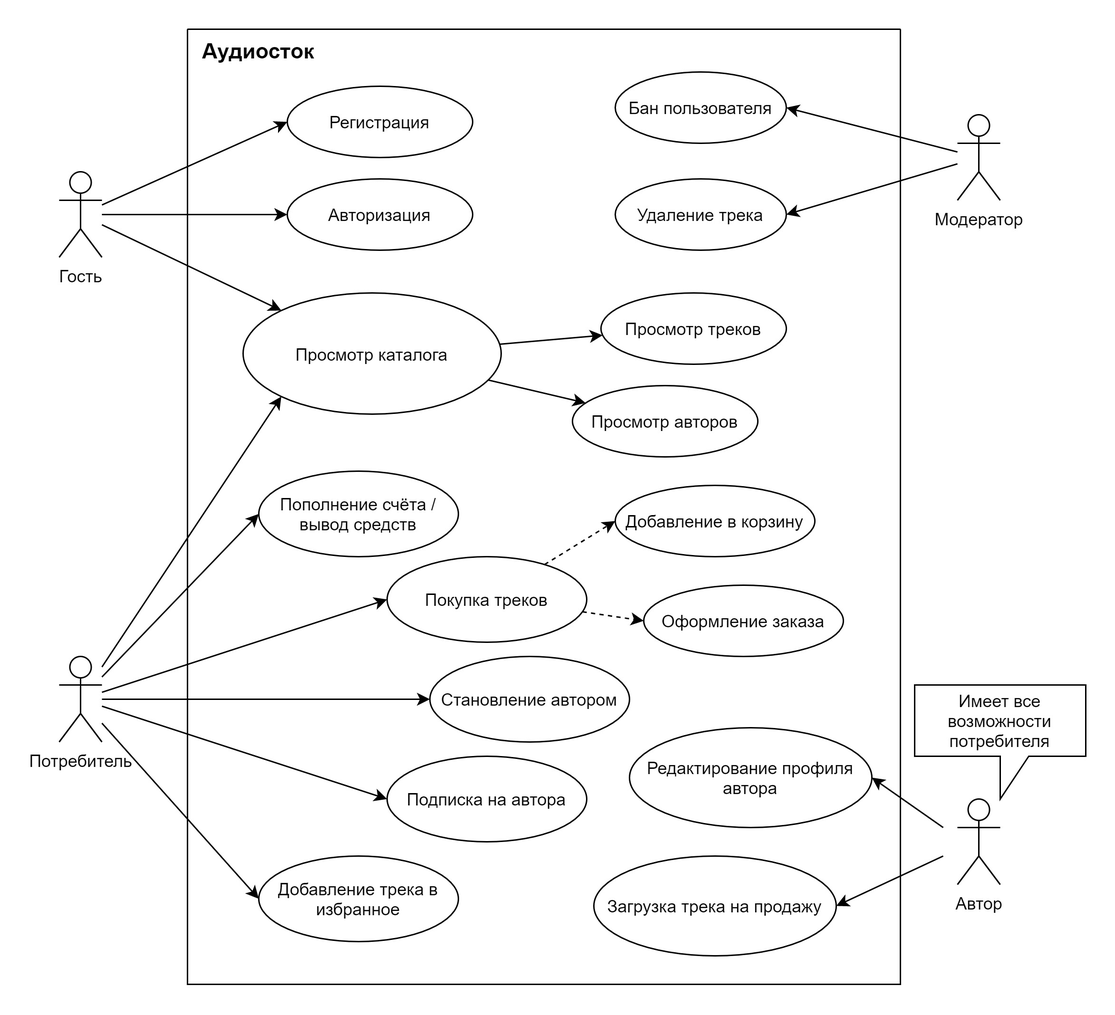
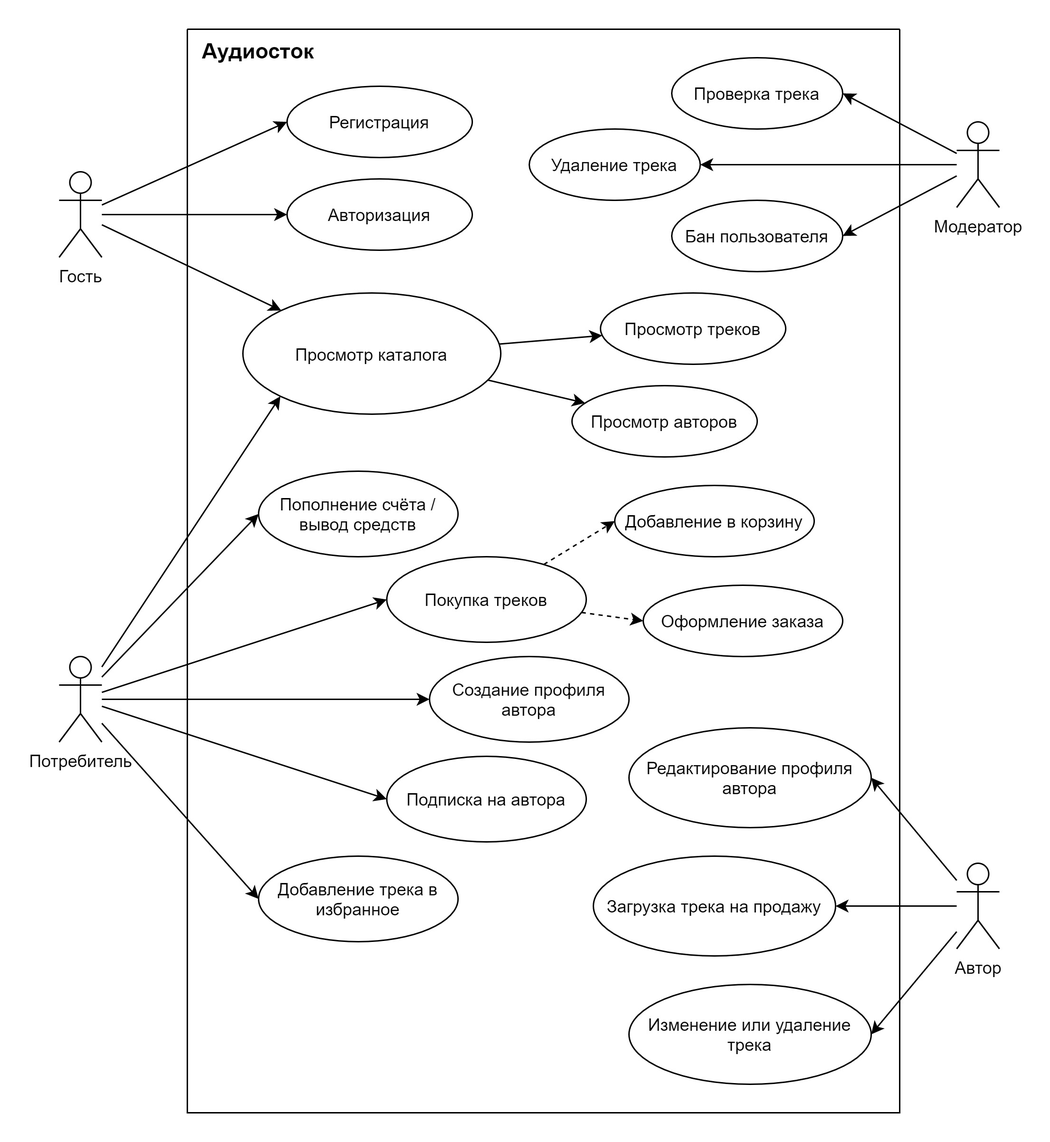
Use cases.md done (#1)
* Updated Use cases.md, changed Use case diagram.jpg

Cosmetic changes, added new scenarios to Author and Moderator

* Added Use cases.md to README.md

* Added missing points to the beginning of the document

* Buying is only for consumer

diff --git a/docs/Use cases.md b/docs/Use cases.md
@@ -1,32 +1,33 @@
 # Прецеденты использования
 
-## Список акторов
+В системе действуют следующие лица: **гость**, **потребитель**, **автор** и **модератор**. Посмотрим, какие действия им доступны.
 
-### Гость
+### Гость:
 
-- просмотр каталога сайта
-- регистрация
-- авторизация
+- просмотр каталога сайта,
+- регистрация в системе,
+- авторизация.
 
-### Потребитель
+### Потребитель:
 
-- просмотр каталога сайта
-- покупка треков
-- подписка на авторов
-- добавление трека в избранное
-- пополнение счета / вывод средств
+- просмотр каталога сайта,
+- покупка треков,
+- подписка на авторов,
+- добавление треков в избранное,
+- пополнение счёта / вывод средств.
 
-### Автор
+### Автор:
 
-*\*Все то же, что доступно потребителю\**
+- редактирование профиля автора,
+- загрузка треков на продажу,
+- изменение информации о треках,
+- удаление треков.
 
-- редактирование профиля автора
-- выкладывание треков
+### Модератор:
 
-### Модератор
-
-- Бан пользователя
-- Удаление трека
+- обработка заявок на добавление треков,
+- бан пользователей,
+- удаление треков.
 
 ## Диаграмма прецедентов использования
 
@@ -34,39 +35,126 @@
 
 ## Спецификации потока событий
 
+1. Спецификации прецедентов использования **гостя**:
+
 | Прецедент | Регистрация |
 | --- | --- |
 | Краткое описание | *Гость* создает новую учетную запись |
 | Действующие лица | *Гость* |
 | Предусловия | *Гость* хочет зарегистрироваться |
 | Основной поток | *Гость* заполняет регистрационную форму, указав логин и пароль |
-| Альтернативные потоки | Если форма заполнена неверно или логин занят, учетная запись не создаётся, пользователь получает сообщение об ошибке |
+| Альтернативные потоки | Если форма заполнена неверно, или логин занят, учетная запись не создаётся, пользователь получает сообщение об ошибке |
 | Постусловия | Если всё заполнено верно, создаётся новая учётная запись |
 
 | Прецедент | Авторизация |
 | --- | --- |
-| Краткое описание | *Гость* входит в свою учётную запись |
+| Краткое описание | *Гость* авторизируется в своей учётной записи |
 | Действующие лица | *Гость* |
 | Предусловия | *Гость* имеет зарегистрированную учётную запись |
 | Основной поток | *Гость* вводит логин и пароль в форму |
-| Альтернативные потоки | Если *гость* неверно ввел данные пользователя, или такого аккаунта нет в системе, *гость* получает сообщение об ошибке |
+| Альтернативные потоки | Если данные пользователя введены неверно, или такого аккаунта нет в системе, *гость* получает сообщение об ошибке |
 | Постусловия | Если введенные *гостем* данные есть в системе, он авторизуется и становится *потребителем* |
 
 | Прецедент | Просмотр каталога |
 | --- | --- |
 | Краткое описание | Пользователь ознакамливается с представленными на сайте треками и авторами |
-| Действующие лица | *Гость*, *потребитель*, *автор* |
+| Действующие лица | *Гость* или *потребитель* |
 | Предусловия | Пользователь желает ознакомиться с каталогом сайта |
 | Основной поток | Пользователь просматривает каталог сайта. Во вкладке "треки" можно ознакомиться с представленными на сайте аудиоматериалами, во вкладке "авторы" — просмотреть профили авторов, торгующих на площадке |
+
+2. Спецификации прецедентов использования **потребителя**:
+
+| Прецедент | Пополнение счёта |
+| --- | --- |
+| Краткое описание | Пользователь желает пополнить счёт для покупки трека(-ов) |
+| Действующие лица | *Потребитель* |
+| Предусловия | Пользователь должен быть авторизован в аккаунте *потребителя* |
+| Основной поток | Пользователь заполняет данные карточки и отправляет запрос |
+| Альтернативные потоки | Если оплата не удалась, пользователь получает сообщение об ошибке |
+| Постусловия | Счёт пользователя пополняется на введённую сумму |
+
+| Прецедент | Покупка треков |
+| --- | --- |
+| Краткое описание | Пользователь хочет купить трек |
+| Действующие лица | *Потребитель* |
+| Предусловия | Пользователь должен быть авторизован в аккаунте *потребителя* |
+| Основной поток | Интересующие треки пользователь **добавляет в корзину**, после чего переходит к **оформлению заказа**. В форме он выбирает способ оплаты и вид желаемой лицензии на трек, после чего отправляет форму |
+| Альтернативные потоки | Если оплата не удалась, пользователь получает сообщение об ошибке |
+| Постусловия | Счёт *автора* пополняется на сумму заказа, а покупателю предоставляется доступ к скачиванию аудиофайла |
+
+| Прецедент | Подписка на авторов |
+| --- | --- |
+| Краткое описание | Если пользователю понравились работы *автора*, он может подписаться на него |
+| Действующие лица | *Потребитель* |
+| Предусловия | Пользователь авторизован в аккаунте *потребителя* |
+| Основной поток | Пользователь нажимает на кнопку "подписаться" |
+| Альтернативные потоки | Если пользователь захочет отписаться от автора, кнопка "подписаться" будет заменена на "отписаться", при нажатии на которую автор пропадет из подписок |
+| Постусловия | Подписавшемуся пользователю будут приходить уведомления о новых работах автора, а сам пользователь окажется в списке подписчиков автора |
+
+| Прецедент | Добавление трека в избранное |
+| --- | --- |
+| Краткое описание | Пользователь отмечает трек, чтобы позже вернуться к нему |
+| Действующие лица | *Потребитель* |
+| Предусловия | Пользователь авторизован в аккаунте *потребителя* |
+| Основной поток | Пользователь нажимает на кнопку "Добавить в избранное" |
+| Альтернативные потоки | Если трек уже находится в избранном, кнопка меняется на "Убрать из избранного". При нажатии трек удалится из списка |
+| Постусловия | Интересующий трек добавится в список избранного пользователя, у автора появится уведомление о том что его работа кому-то понравилась |
+
+| Прецедент | Создание профиля автора |
+| --- | --- |
+| Краткое описание | *Потребитель* открывает профиль автора, чтобы начать продавать аудио |
+| Действующие лица | *Потребитель* |
+| Предусловия | Пользователь должен быть авторизован в аккаунте *потребителя* |
+| Основной поток | Пользователь заполняет форму создания профиля автора |
+| Альтернативные потоки | Если форма заполнена неверно, пользователь получает сообщение об ошибке |
+| Постусловия | У пользователя появляется доступ к действиям *автора* |
+
+3. Спецификации прецедентов использования **автора**:
+
+| Прецедент | Редактирование профиля |
+| --- | --- |
+| Краткое описание | Пользователь редактирует свой профиль автора |
+| Действующие лица | *Автор* |
+| Предусловия | Пользователь должен быть авторизован, и у него должен быть открыт профиль автора |
+| Основной поток | Пользователь меняет данные своего профиля в специальной форме |
+| Альтернативные потоки | Если форма заполнена неверно, пользователь получает сообщение об ошибке  |
+| Постусловия | Информация о пользователе меняется |
+
+| Прецедент | Загрузка трека на продажу |
+| --- | --- |
+| Краткое описание | Автор выкладывает трек на продажу |
+| Действующие лица | *Автор* |
+| Предусловия | Пользователь должен быть авторизован и иметь профиль автора |
+| Основной поток | *Автор*, выбрав обложку, описание, жанр и т. д., заполняет необходимые поля и отправляет трек на проверку *модераторов* |
+| Альтернативные потоки | - Пользователь неверно заполнил поля, тогда он получает сообщение об ошибке <br /> - *Модератор* отклонил заявку на добавление трека |
+| Постусловия | Трек размещается на площадке и появляется в треках автора |
+
+| Прецедент | Изменение или удаление трека |
+| --- | --- |
+| Краткое описание | *Автор* меняет информацию о треке или удаляет его с площадки |
+| Действующие лица | *Автор* |
+| Предусловия | Пользователь должен быть авторизован и иметь профиль автора |
+| Основной поток | Пользователь меняет данные о треке или заполняет специальную форму для удаления трека |
+| Альтернативные потоки | - Новые данные введены некорректно, пользователь получает сообщение об ошибке, данные о треке не меняются <br /> - Пользователь не подтверждает удаление трека |
+| Постусловия | Данные о треке меняются или трек удаляется с площадки и из профиля автора |
+
+4. Спецификации прецедентов использования **модератора**:
+
+| Прецедент | Проверка трека |
+| --- | --- |
+| Краткое описание | *Модератор* принимает или отклоняет заявку на добавление трека *автора* на площадку |
+| Действующие лица | *Модератор* |
+| Предусловия | Пользователь авторизован в аккаунте *модератора* |
+| Основной поток | *Модератор* проверяет информацию о треке, прослушивает его, после чего принимает решение, добавлять трек на площадку или нет. Для этого у него есть соответствующие кнопки — "Одобрить" и "Отклонить" |
 | Альтернативные потоки | - |
-| Постусловия | - |
+| Постусловия | В случае одобрения заявки, трек появляется на площадке и начинает продаваться, в случае отклонения — автор трека получает соответствующее уведомление |
 
 | Прецедент | Бан пользователя |
 | --- | --- |
-| Краткое описание | *Модератор* банит аккаунт *автора* |
+| Краткое описание | *Модератор* банит профиль автора пользователя |
 | Действующие лица | *Модератор* |
 | Предусловия | Пользователь авторизован в аккаунте *модератора* |
-| Основной поток | *Модератор* нажимает на кнопку "забанить" в профиле *автора*, помещая аккаунт в список забаненных |
+| Основной поток | *Модератор* нажимает на кнопку "забанить" в профиле автора пользователя, помещая профиль в список забаненных |
 | Альтернативные потоки | *Модератор* может "разбанить" автора, нажав на кнопку "разбанить" |
 | Постусловия | Аккаунт пропадает из вкладки авторов на главной странице. При обращении по адресу, по которому распологался профиль *автора*, любым пользователем, кроме *модератора*, пользователь получает сообщение "страница не найдена". Треки забаненного *автора* скрываются, денежные средства замораживаются |
 
@@ -77,67 +165,4 @@
 | Предусловия | Пользователь авторизован в аккаунте *модератора* |
 | Основной поток | *Модератор* нажимает на кнопку "удалить" на странице трека |
 | Альтернативные потоки | - |
-| Постусловия | Трек пропадает из вкладки "треки" и из профиля *автора* |
-
-| Прецедент | Пополнение счёта |
-| --- | --- |
-| Краткое описание | Для покупки звуков у пользователя на счету должны быть деньги |
-| Действующие лица | *Потребитель*, *автор* |
-| Предусловия | Пользователь должен быть зарегестрирован |
-| Основной поток | Пользователь заполняет данные карточки и отправляет запрос |
-| Альтернативные потоки | Если оплата не удалась пользователь получает сообщение об ошибке |
-| Постусловия | Счет пользователя пополняется на введенную сумму |
-
-| Прецедент | Покупка треков |
-| --- | --- |
-| Краткое описание | У пользователей есть возможность покупать треки |
-| Действующие лица | *Потребитель*, *автор* |
-| Предусловия | Пользователь должен быть зарегестрирован и интересующие треки должны быть **добавлены в корзину** |
-| Основной поток | Из корзины пользователь переходит  к оформлению заказа (способ оплаты, подтверждение) |
-| Альтернативные потоки | Если оплата не удалась пользователь получает сообщение об ошибке |
-| Постусловия | Счет автора пополняется на сумму заказа а покупателю предоставляется доступ к аудиофайлу |
-
-| Прецедент | Становление автором |
-| --- | --- |
-| Краткое описание | Для того что бы начать продавать аудио пользователь должен изменить статус аккаунта на автора |
-| Действующие лица | *Потребитель* |
-| Предусловия | Пользователь должен быть зарегистрирован |
-| Основной поток | Пользователь заполняет более подробную форму |
-| Альтернативные потоки | Если форма заполнена неверно пользователь получает сообщение об ошибке  |
-| Постусловия | Если все в порядке статус аккаунта меняется на авторский и ему открывается возможность выкладывать аудио на продажу |
-
-| Прецедент | Подписка на авторов |
-| --- | --- |
-| Краткое описание | Если пользователю понравились работы автора он может подписаться на него |
-| Действующие лица | *Потребитель* или *Автор* |
-| Предусловия | Пользователь зарегестрирован |
-| Основной поток | По нажатии на кнопку интересующий автор будет добавлен в список подписок |
-| Альтернативные потоки | Если автор уже был добавлен пользователь отпишется от автора |
-| Постусловия | Подписавшемуся пользователю будут приходить уведомления о новых работах автора, так же подписавшиийся окажется в списке подсчиков у автора |
-
-| Прецедент | Добавление трека в избранное |
-| --- | --- |
-| Краткое описание | Если у пользователя нет возможности купить трек в данный момент он может добавить его в список избранного |
-| Действующие лица | *Потребитель* или *Автор* |
-| Предусловия | Пользователь зарегестрирован |
-| Основной поток | По нажатии на кнопку интересующий трек будет добавлен в список избранного |
-| Альтернативные потоки | Если автор уже был добавлен трек удалится из списка |
-| Постусловия | Трек будет доступен даже после завершения сессии, у автора появится уведомление о том что его работа кому-то понравилась |
-
-| Прецедент | Редактирование профиля |
-| --- | --- |
-| Краткое описание | После решгистрации можно изменять личные данные |
-| Действующие лица | *Автор* или *Потребитель* |
-| Предусловия | Пользователь должен быть зарегестрирован |
-| Основной поток | Пользователь заполняет необходимую форму |
-| Альтернативные потоки | если форма заполнена неверно пользователь получает сообщение об ошибке  |
-| Постусловия | Если всё заполнено верно, информация о пользователе изменяется, приходит сообщение об успешной замене|
-
-| Прецедент | Загрузка трека на продажу |
-| --- | --- |
-| Краткое описание | Автор может выложить трек выбрав обложку, описание, жанр и т.д. |
-| Действующие лица | *Автор* |
-| Предусловия | Пользователь должен быть зарегестрирован и иметь статус автора |
-| Основной поток | Пользователь заполняет необходимые поля иотправляет трек на проверку |
-| Альтернативные потоки | Если запрос не проходит по параметрам, пользователю приходит сообщение об ошибке |
-| Постусловия | Если все заполнено правильно, трек размещается на площадке и появляется у пользователя в списке треков |
+| Постусловия | Трек пропадает из вкладки "треки" и из профиля автора пользователя |

diff --git a/README.md b/README.md
@@ -9,3 +9,4 @@
 ## Этапы выполнения
 
 1. [HLO + Analogues.md](docs/HLO%20%2B%20Analogues.md)
+2. [Use cases.md](docs/Use%20cases.md)
